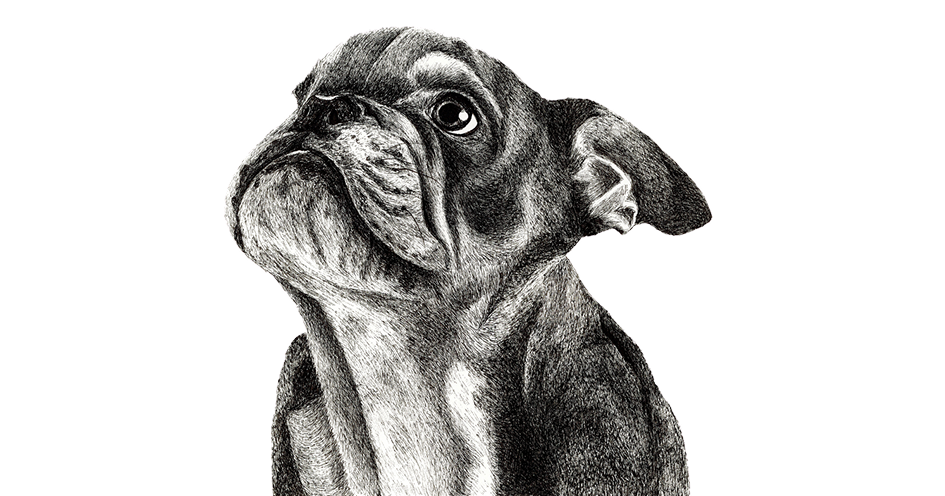
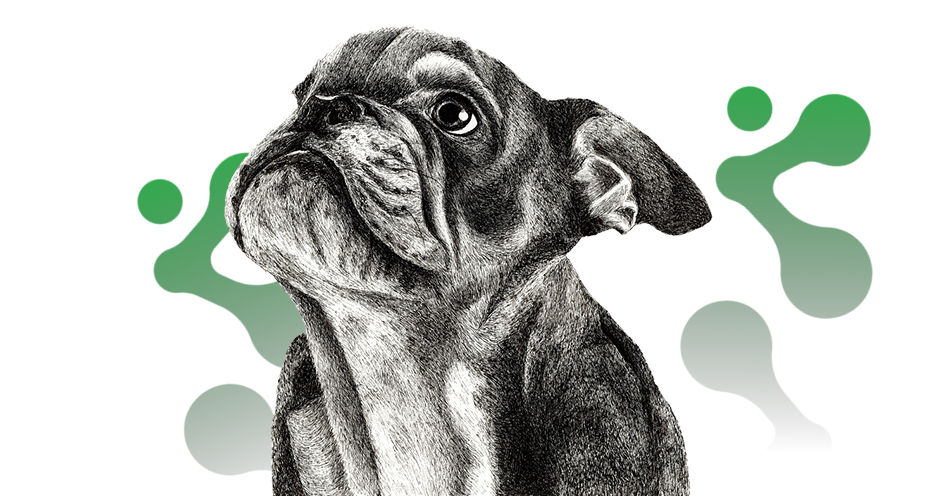
Adding vectors

diff --git a/index.html b/index.html
@@ -54,6 +54,13 @@
             <p class="subtitle">Arthrohard to dobrze przyswajalny suplement diety w formie syropu, <br>stworzony z myślą o zdrowiu stawów Twojego psa lub kota.</p>
             <button class="green-button">Kup teraz</button>
         </div>
+
+        <img class="main-vector main-vector-1" src="./assets/vectors/main-vector-1.png" alt="">
+        <img class="main-vector main-vector-2" src="./assets/vectors/main-vector-2.png" alt="">
+        <img class="main-vector main-vector-3" src="./assets/vectors/main-vector-3.png" alt="">
+
+        <img class="main-mobile-vector main-mobile-vector-4" src="./assets/vectors/submain-vector.png" alt="">
+        <img class="main-mobile-vector main-mobile-vector-5" src="./assets/vectors/submain-vector.png" alt="">
     </section>
 
     <section id="stand-out">
@@ -65,6 +72,8 @@
                 <p class="stand-out__content">Zapewnia dodatkowe wsparcie w zwalczaniu stanów bólowych i zapalnych. Skoncentrowane składniki aktywne, opracowane we współpracy z lekarzami weterynarii, przynoszą szybkie i zauważalne efekty, szczególnie korzystne dla zwierząt z poważnymi problemami stawowymi.</p>
                 <div class="stand-out__image-wrapper">
                     <img class="stand-out__image" src="./assets/stand-out/stand-out-1.png" alt="Kwiatek">
+                    <img class="stand-out-vector stand-out-vector-1" src="./assets/vectors/submain-vector.png" alt="">
+                    <img class="stand-out-vector stand-out-vector-2" src="./assets/vectors/submain-vector.png" alt="">
                 </div>
             </article>
     
@@ -80,6 +89,8 @@
                 </ol>
                 <div class="stand-out__image-wrapper">
                     <img class="stand-out__image" src="./assets/stand-out/stand-out-2.png" alt="Dwa psy, jeden je z ręki drugi z miski">
+                    <img class="stand-out-vector stand-out-vector-3" src="./assets/vectors/submain-vector.png" alt="">
+                    <img class="stand-out-vector stand-out-vector-4" src="./assets/vectors/submain-vector.png" alt="">
                 </div>
             </article>
     
@@ -88,6 +99,8 @@
                 <p class="stand-out__content">Tylko jedna porcja dziennie. To nie tylko wygoda, ale również gwarancja, że Twoje zwierzę otrzymuje wszystko, czego potrzebuje, aby cieszyć się zdrowiem i aktywnością na długo. Skorzystaj z zalet Arthrohard i zobacz różnicę w komforcie życia swojego zwierzęcia.</p>
                 <div class="stand-out__image-wrapper">
                     <img class="stand-out__image" src="./assets/stand-out/stand-out-3.png" alt="Strzykawka z igłą">
+                    <img class="stand-out-vector stand-out-vector-5" src="./assets/vectors/submain-vector.png" alt="">
+                    <img class="stand-out-vector stand-out-vector-6" src="./assets/vectors/submain-vector.png" alt="">
                 </div>
             </article>
         </div>
@@ -95,6 +108,9 @@
 
     <section id="product-works">
         <h2 class="gradient-text section-title underline-title product-works__title">Działanie preparatu</h2>
+
+        <img class="product-works-vector product-works-vector-1" src="./assets/vectors/submain-vector.png" alt="">
+        <img class="product-works-vector product-works-vector-2" src="./assets/vectors/submain-vector.png" alt="">
 
         <ol class="list">
             <li class="list__element">
@@ -124,6 +140,9 @@
     <section id="composition">
         <h2 class="gradient-text section-title underline-title composition__title">Skład w 5 ml</h2>
 
+        <img class="composition-vector composition-vector-1" src="./assets/vectors/submain-vector.png" alt="">
+        <img class="composition-vector composition-vector-2" src="./assets/vectors/submain-vector.png" alt="">
+
         <h3 class="components__title">Co dają poszczególne składniki:</h3>
 
         <div class="components-grid">
@@ -139,6 +158,8 @@
                 <h4 class="component__name">Czarci pazur</h4>
                 <p class="component__quantity">250 mg</p>
                 <p class="component__desc">Czarci pazur jest rośliną, która ma właściwości przeciwzapalne i przeciwbólowe. Może to pomóc zwierzętom, które doświadczają bólu i stanu zapalnego związanego z problemami ze stawami.</p>
+                <img class="composition-vector composition-vector-3" src="./assets/vectors/submain-vector.png" alt="">
+                <img class="composition-vector composition-vector-4" src="./assets/vectors/submain-vector.png" alt="">
             </div>
 
             <div class="component" data-order="3">
@@ -158,6 +179,8 @@
                 <h4 class="component__name">Witamina C</h4>
                 <p class="component__quantity">50 mg</p>
                 <p class="component__desc">Witamina C jest potężnym przeciwutleniaczem, który może pomóc w ochronie stawów poprzez neutralizację wolnych rodników, które mogą uszkadzać chrząstkę. Ponadto, witamina C odgrywa ważną rolę w produkcji kolagenu, kluczowego składnika chrząstki.</p>
+                <img class="composition-vector composition-vector-3" src="./assets/vectors/submain-vector.png" alt="">
+                <img class="composition-vector composition-vector-4" src="./assets/vectors/submain-vector.png" alt="">
             </div>
 
             <div class="component" data-order="5">
@@ -172,6 +195,8 @@
                 <h4 class="component__name">MSM</h4>
                 <p class="component__quantity">250 mg</p>
                 <p class="component__desc">Metylosulfonylometan, czyli MSM, to naturalny związek siarki, który pomaga w utrzymaniu zdrowych stawów poprzez zmniejszenie stanu zapalnego i bólu. MSM może również pomagać w produkcji kolagenu, co przyczynia się do zdrowia chrząstki stawowej.</p>
+                <img class="composition-vector composition-vector-3" src="./assets/vectors/submain-vector.png" alt="">
+                <img class="composition-vector composition-vector-4" src="./assets/vectors/submain-vector.png" alt="">
             </div>
 
             <div class="component" data-order="7">

diff --git a/css/stand-out-section.css b/css/stand-out-section.css
@@ -1,6 +1,7 @@
 #stand-out {
     padding-bottom: 120px;
     color: #111;
+    overflow: hidden;
 }
 
 .stand-out__title {
@@ -40,8 +41,10 @@
 }
 
 .stand-out__image {
+    position: relative;
     width: 360px;
     height: 290px;
+    z-index: 1;
 }
 
 .stand-out__box:hover .stand-out__image-wrapper:after {
@@ -52,6 +55,47 @@
     width: 100%;
     height: 1px;
     background-color: #111;
+}
+
+.stand-out-vector {
+    position: absolute;
+    z-index: 0;
+}
+
+.stand-out-vector-1 {
+    top: 80px;
+    left: -70px;
+    transform: rotate(-5deg);
+}
+
+.stand-out-vector-2 {
+    top: 40px;
+    right: -70px;
+    transform: rotate(15deg);
+}
+
+.stand-out-vector-3 {
+    bottom: 0px;
+    left: -60px;
+    transform: rotate(200deg);
+}
+
+.stand-out-vector-4 {
+    bottom: 20px;
+    right: -20px;
+    transform: rotate(180deg);
+}
+
+.stand-out-vector-5 {
+    top: 40px;
+    left: -70px;
+    transform: rotate(-5deg);
+}
+
+.stand-out-vector-6 {
+    bottom: 20px;
+    right: -20px;
+    transform: rotate(180deg);
 }
 
 @media (max-width: 768px) {
@@ -72,6 +116,11 @@
         font-size: 13px;
     }
 
+    .stand-out__image-wrapper:not(:last-child) {
+        margin-bottom: 24px
+    }
+    
+
     .stand-out__image {
         width: 100%;
         height: auto;
@@ -79,5 +128,29 @@
 
     #stand-out .list {
         align-items: center;
+    }
+
+    .stand-out-vector {
+        width: 54px;
+        height: 137px;
+    }
+
+    .stand-out-vector-1,
+    .stand-out-vector-3 {
+        top: 230px;
+        left: -45px;
+        transform: rotate(45deg);
+    }
+
+    .stand-out-vector-2,
+    .stand-out-vector-4 {
+        top: 240px;
+        right: -50px;
+        transform: rotate(-45deg);
+    }
+
+    .stand-out-vector-5,
+    .stand-out-vector-6 {
+        display: none;
     }
 }

diff --git a/css/composition-section.css b/css/composition-section.css
@@ -1,5 +1,7 @@
 #composition {
+    position: relative;
     background-color: #FFF;
+    overflow: hidden;
 }
 
 .composition__title {
@@ -46,6 +48,7 @@
 }
 
 .component {
+    position: relative;
     display: flex;
     flex-direction: column;
     justify-content: center;
@@ -105,6 +108,13 @@
     max-width: 945px;
     width: 100%;
     height: auto;
+}
+
+.composition-vector {
+    position: absolute;
+    display: none;
+    width: 54px;
+    height: 137px;
 }
 
 @media (max-width: 1500px) {
@@ -196,5 +206,33 @@
 
     .center .red-button {
         display: none;
+    }
+
+    .composition-vector {
+        display: block;
+    }
+    
+    .composition-vector-1 {
+        top: 16px;
+        left: -25px;
+        transform: rotate(50deg);
+    }
+    
+    .composition-vector-2 {
+        top: 20px;
+        right: -15px;
+        transform: rotate(-45deg)
+    }
+
+    .composition-vector-3 {
+        top: -26px;
+        left: -48px;
+        transform: rotate(50deg);
+    }
+    
+    .composition-vector-4 {
+        top: -30px;
+        right: -35px;
+        transform: rotate(-45deg)
     }
 }

diff --git a/css/main-section.css b/css/main-section.css
@@ -1,4 +1,5 @@
 #main-section {
+    position: relative;
     display: flex;
     gap: 111px;
     padding-bottom: 153px;
@@ -36,6 +37,38 @@
     color: #111111;
     font-size: 1.25rem;
     line-height: 25px;
+}
+
+.main-vector,
+.main-mobile-vector {
+    position: absolute;
+}
+
+.main-mobile-vector {
+    display: none;
+    width: 54px;
+    height: 137px;
+}
+
+.main-vector-1 {
+    top: 721px;
+    right: 0px;
+}
+
+.main-vector-2 {
+    top: 828px;
+    left: 0px;
+}
+
+.main-vector-3 {
+    top: 530px;
+    right: 0px;
+}
+
+@media (max-width: 1500px) {
+    .main-vector {
+        display: none;
+    }
 }
 
 @media (max-width: 768px) {
@@ -77,5 +110,21 @@
 
     #main-section .green-button {
         display: none;
+    }
+
+    .main-mobile-vector {
+        display: block;
+    }
+
+    .main-mobile-vector-4 {
+        top: 601px;
+        left: -30px;
+        transform: rotate(45deg);
+    }
+
+    .main-mobile-vector-5 {
+        top: 654px;
+        right: -30px;
+        transform: rotate(45deg);
     }
 }

diff --git a/css/product-works.css b/css/product-works.css
@@ -1,8 +1,10 @@
 #product-works {
+    position: relative;
     display: none;
     margin-bottom: 17px;
     padding-bottom: 29px;
     background-color: #FFF;
+    overflow: hidden;
 }
 
 .product-works__title {
@@ -15,8 +17,32 @@
     gap: 30px;
 }
 
+.product-works-vector {
+    position: absolute;
+    display: none;
+    width: 54px;
+    height: 137px;
+}
+
+
 @media (max-width: 768px) {
     #product-works {
         display: block;
     } 
+
+    .product-works-vector {
+        display: block;
+    }
+    
+    .product-works-vector-1 {
+        top: 16px;
+        left: -25px;
+        transform: rotate(50deg);
+    }
+    
+    .product-works-vector-2 {
+        top: 20px;
+        right: -15px;
+        transform: rotate(-45deg)
+    }
 }
